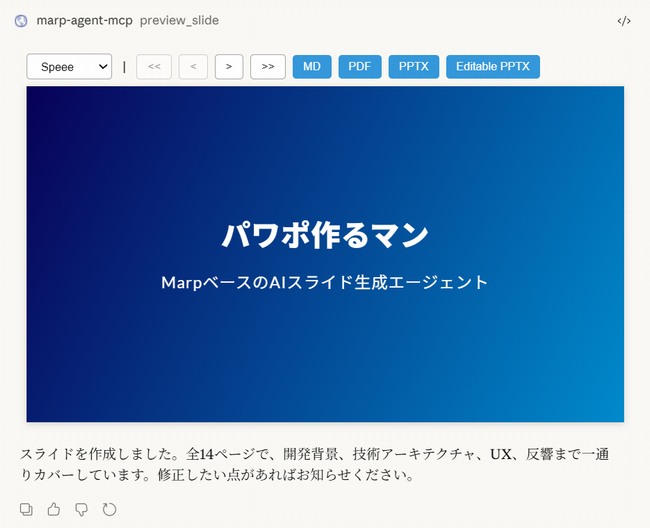
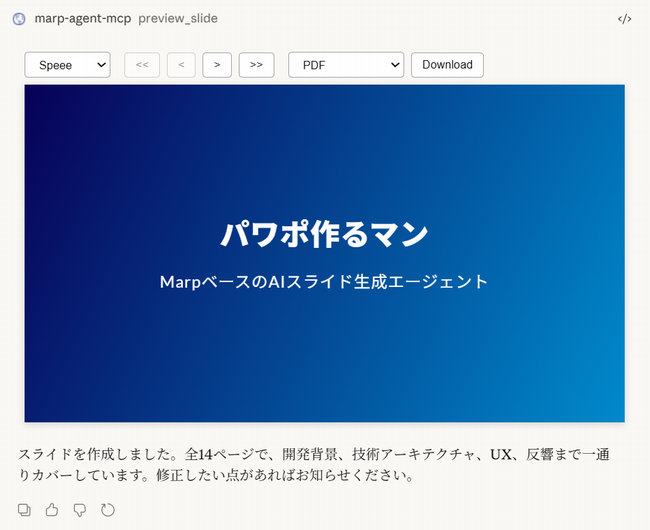
refactor: ダウンロードUIをセレクト+ボタンに統合

diff --git a/client/src/main.ts b/client/src/main.ts
@@ -53,14 +53,10 @@ const firstBtn = document.getElementById("firstBtn") as HTMLButtonElement;
 const prevBtn = document.getElementById("prevBtn") as HTMLButtonElement;
 const nextBtn = document.getElementById("nextBtn") as HTMLButtonElement;
 const lastBtn = document.getElementById("lastBtn") as HTMLButtonElement;
-const downloadMd = document.getElementById("downloadMd") as HTMLButtonElement;
-const downloadPdf = document.getElementById("downloadPdf") as HTMLButtonElement;
-const downloadPptx = document.getElementById(
-  "downloadPptx",
-) as HTMLButtonElement;
-const downloadPptxEditable = document.getElementById(
-  "downloadPptxEditable",
-) as HTMLButtonElement;
+const exportFormat = document.getElementById(
+  "exportFormat",
+) as HTMLSelectElement;
+const downloadBtn = document.getElementById("downloadBtn") as HTMLButtonElement;
 const previewContainer = document.getElementById(
   "previewContainer",
 ) as HTMLElement;
@@ -159,28 +155,30 @@ function updatePageInfo() {
   lastBtn.disabled = isLast;
 }
 
-function updateDownloadButtonsAvailability() {
-  // MD: downloadFile のみ必要（クライアント側で完結）
-  // PDF/PPTX: serverTools と downloadFile の両方が必要
-  const canDownloadExport = canCallServerTools && canDownloadFile;
+function updateDownloadAvailability() {
   const unavailableMessage = "この環境ではダウンロードできません";
 
-  downloadMd.disabled = !canDownloadFile;
-  downloadMd.title = canDownloadFile ? "" : unavailableMessage;
-  downloadPdf.disabled = !canDownloadExport;
-  downloadPdf.title = canDownloadExport ? "" : unavailableMessage;
-  downloadPptx.disabled = !canDownloadExport;
-  downloadPptx.title = canDownloadExport ? "" : unavailableMessage;
-  downloadPptxEditable.disabled = !canDownloadExport;
-  downloadPptxEditable.title = canDownloadExport ? "" : unavailableMessage;
+  // downloadFile があればセレクト＋ボタンを有効化
+  exportFormat.disabled = !canDownloadFile;
+  downloadBtn.disabled = !canDownloadFile;
+  downloadBtn.title = canDownloadFile ? "" : unavailableMessage;
+
+  // serverTools がなければ PDF/PPTX オプションを無効化
+  for (const option of exportFormat.options) {
+    if (option.value !== "md") {
+      option.disabled = !canCallServerTools;
+    }
+  }
+
+  // 現在の選択が無効になった場合は Markdown に切り替え
+  if (!canCallServerTools && exportFormat.value !== "md") {
+    exportFormat.value = "md";
+  }
 }
 
-function resetDownloadButtons() {
-  downloadMd.textContent = "MD";
-  downloadPdf.textContent = "PDF";
-  downloadPptx.textContent = "PPTX";
-  downloadPptxEditable.textContent = "Editable PPTX";
-  updateDownloadButtonsAvailability();
+function resetExportButton() {
+  downloadBtn.textContent = "Download";
+  updateDownloadAvailability();
 }
 
 // 現在のスライドを表示（1ページずつ）
@@ -224,9 +222,9 @@ function renderSlides() {
     updatePageInfo();
     showCurrentSlide();
 
-    // themeSelectとダウンロードボタンを有効化
+    // themeSelect、Exportボタンを有効化
     themeSelect.disabled = false;
-    updateDownloadButtonsAvailability();
+    updateDownloadAvailability();
   } catch (error) {
     console.error("Render failed:", error);
     showToast("レンダリングに失敗しました");
@@ -256,13 +254,13 @@ async function triggerDownload(
     showToast("ダウンロードに失敗しました");
   }
 
-  resetDownloadButtons();
+  resetExportButton();
 }
 
 async function handleToolResult(result: CallToolResult) {
   const content = result.content;
   if (!content || content.length === 0) {
-    resetDownloadButtons();
+    resetExportButton();
     return;
   }
 
@@ -275,16 +273,49 @@ async function handleToolResult(result: CallToolResult) {
       } else if (data.pptx_base64) {
         await triggerDownload(data.pptx_base64, data.filename, data.mime_type);
       } else {
-        resetDownloadButtons();
+        resetExportButton();
       }
     } catch (e) {
       console.error("handleToolResult failed:", e);
       showToast("ダウンロードに失敗しました");
-      resetDownloadButtons();
+      resetExportButton();
     }
   } else {
-    resetDownloadButtons();
+    resetExportButton();
   }
+}
+
+// Markdownダウンロード
+async function handleMarkdownDownload() {
+  if (!currentMarkdown) return;
+  downloadBtn.disabled = true;
+  downloadBtn.textContent = "wait...";
+  try {
+    const markdownWithTheme = injectTheme(currentMarkdown, currentTheme);
+    const encoder = new TextEncoder();
+    const bytes = encoder.encode(markdownWithTheme);
+    let binary = "";
+    for (const byte of bytes) {
+      binary += String.fromCharCode(byte);
+    }
+    const base64Data = btoa(binary);
+    await app.downloadFile({
+      contents: [
+        {
+          type: "resource",
+          resource: {
+            uri: "file:///slide.md",
+            mimeType: "text/markdown",
+            blob: base64Data,
+          },
+        },
+      ],
+    });
+  } catch (e) {
+    console.error("Markdown download failed:", e);
+    showToast("ダウンロードに失敗しました");
+  }
+  resetExportButton();
 }
 
 // エクスポートボタンの共通ハンドラ
@@ -305,44 +336,15 @@ async function handleExport(
       handleToolResult(result);
     } else {
       showError(result);
-      resetDownloadButtons();
+      resetExportButton();
     }
   } catch (e) {
     console.error(`${toolName} failed:`, e);
-    resetDownloadButtons();
+    resetExportButton();
   }
 }
 
 // イベントリスナー
-downloadMd.addEventListener("click", async () => {
-  if (!currentMarkdown) return;
-  downloadMd.disabled = true;
-  downloadMd.textContent = "wait...";
-  try {
-    // 選択中のテーマを反映したマークダウン
-    const markdownWithTheme = injectTheme(currentMarkdown, currentTheme);
-    // UTF-8対応のBase64エンコード
-    const bytes = new TextEncoder().encode(markdownWithTheme);
-    const base64 = btoa(String.fromCharCode(...bytes));
-    await app.downloadFile({
-      contents: [
-        {
-          type: "resource",
-          resource: {
-            uri: "file:///slide.md",
-            mimeType: "text/markdown",
-            blob: base64,
-          },
-        },
-      ],
-    });
-  } catch (e) {
-    console.error("MD download failed:", e);
-    showToast("ダウンロードに失敗しました");
-  }
-  resetDownloadButtons();
-});
-
 themeSelect.addEventListener("change", () => {
   currentTheme = themeSelect.value as ThemeId;
   if (currentMarkdown) {
@@ -382,15 +384,18 @@ lastBtn.addEventListener("click", () => {
   }
 });
 
-downloadPdf.addEventListener("click", () =>
-  handleExport(downloadPdf, "export_pdf", {}),
-);
-downloadPptx.addEventListener("click", () =>
-  handleExport(downloadPptx, "export_pptx", {}),
-);
-downloadPptxEditable.addEventListener("click", () =>
-  handleExport(downloadPptxEditable, "export_pptx", { editable: true }),
-);
+downloadBtn.addEventListener("click", async () => {
+  const format = exportFormat.value;
+  if (format === "pdf") {
+    handleExport(downloadBtn, "export_pdf", {});
+  } else if (format === "pptx") {
+    handleExport(downloadBtn, "export_pptx", {});
+  } else if (format === "pptx-editable") {
+    handleExport(downloadBtn, "export_pptx", { editable: true });
+  } else if (format === "md") {
+    await handleMarkdownDownload();
+  }
+});
 
 // MCP Appハンドラ
 app.ontoolresult = (result) => {
@@ -434,7 +439,7 @@ app.onhostcontextchanged = (ctx) => {
 };
 
 app.ontoolcancelled = () => {
-  resetDownloadButtons();
+  resetExportButton();
 };
 
 // 初期化

diff --git a/client/index.html b/client/index.html
@@ -9,17 +9,27 @@
 <body>
   <div id="app">
     <div class="toolbar">
-      <select id="themeSelect" disabled></select>
-      <span class="separator">|</span>
-      <button id="firstBtn" disabled>&lt;&lt;</button>
-      <button id="prevBtn" disabled>&lt;</button>
-      <button id="nextBtn" disabled>&gt;</button>
-      <button id="lastBtn" disabled>&gt;&gt;</button>
-      <div class="download-group">
-        <button id="downloadMd" class="download-btn" disabled>MD</button>
-        <button id="downloadPdf" class="download-btn" disabled>PDF</button>
-        <button id="downloadPptx" class="download-btn" disabled>PPTX</button>
-        <button id="downloadPptxEditable" class="download-btn" disabled>Editable PPTX</button>
+      <div class="toolbar-row">
+        <div class="toolbar-group">
+          <select id="themeSelect" disabled></select>
+        </div>
+        <div class="toolbar-group">
+          <button id="firstBtn" disabled>&lt;&lt;</button>
+          <button id="prevBtn" disabled>&lt;</button>
+          <button id="nextBtn" disabled>&gt;</button>
+          <button id="lastBtn" disabled>&gt;&gt;</button>
+        </div>
+      </div>
+      <div class="toolbar-row">
+        <div class="toolbar-group">
+          <select id="exportFormat" disabled>
+            <option value="pdf">PDF</option>
+            <option value="pptx">PPTX</option>
+            <option value="pptx-editable">Editable PPTX</option>
+            <option value="md">Markdown</option>
+          </select>
+          <button id="downloadBtn" disabled>Download</button>
+        </div>
       </div>
     </div>
     <div id="previewContainer">

diff --git a/client/src/styles.css b/client/src/styles.css
@@ -12,8 +12,6 @@
   /* アプリ独自の変数（ホストからは提供されない） */
   --app-shadow-sm: 0 2px 8px rgba(0, 0, 0, 0.15);
   --app-border-radius: 4px;
-  --app-accent: #3498db;
-  --app-accent-hover: #2980b9;
   --app-text-on-accent: #ffffff;
   --app-toast-background: #e74c3c;
 }
@@ -29,8 +27,6 @@
 
     /* アプリ独自変数のダークモード値 */
     --app-shadow-sm: 0 2px 8px rgba(0, 0, 0, 0.4);
-    --app-accent: #5c7599;
-    --app-accent-hover: #6b8caa;
     --app-text-on-accent: #f5f5f5;
     --app-toast-background: #c0392b;
   }
@@ -58,16 +54,24 @@ body {
 
 .toolbar {
   display: flex;
-  gap: 8px;
+  gap: 8px 16px;
   align-items: center;
   flex-wrap: wrap;
   padding: 12px 16px 4px 16px;
 }
 
-.separator {
-  color: var(--color-text-secondary);
-  font-size: 14px;
-  margin: 0 4px;
+.toolbar-row {
+  display: flex;
+  gap: 8px 24px;
+  align-items: center;
+  flex-wrap: wrap;
+}
+
+.toolbar-group {
+  display: flex;
+  gap: 8px;
+  align-items: center;
+  flex-wrap: nowrap;
 }
 
 .toolbar select,
@@ -98,24 +102,6 @@ body {
 .toolbar button:disabled {
   opacity: 0.5;
   cursor: not-allowed;
-}
-
-.toolbar button.download-btn {
-  background: var(--app-accent);
-  color: var(--app-text-on-accent);
-  border: none;
-}
-
-@media (hover: hover) {
-  .toolbar button.download-btn:hover:not(:disabled) {
-    background: var(--app-accent-hover);
-  }
-}
-
-.download-group {
-  display: flex;
-  gap: 8px;
-  align-items: center;
 }
 
 #previewContainer {
